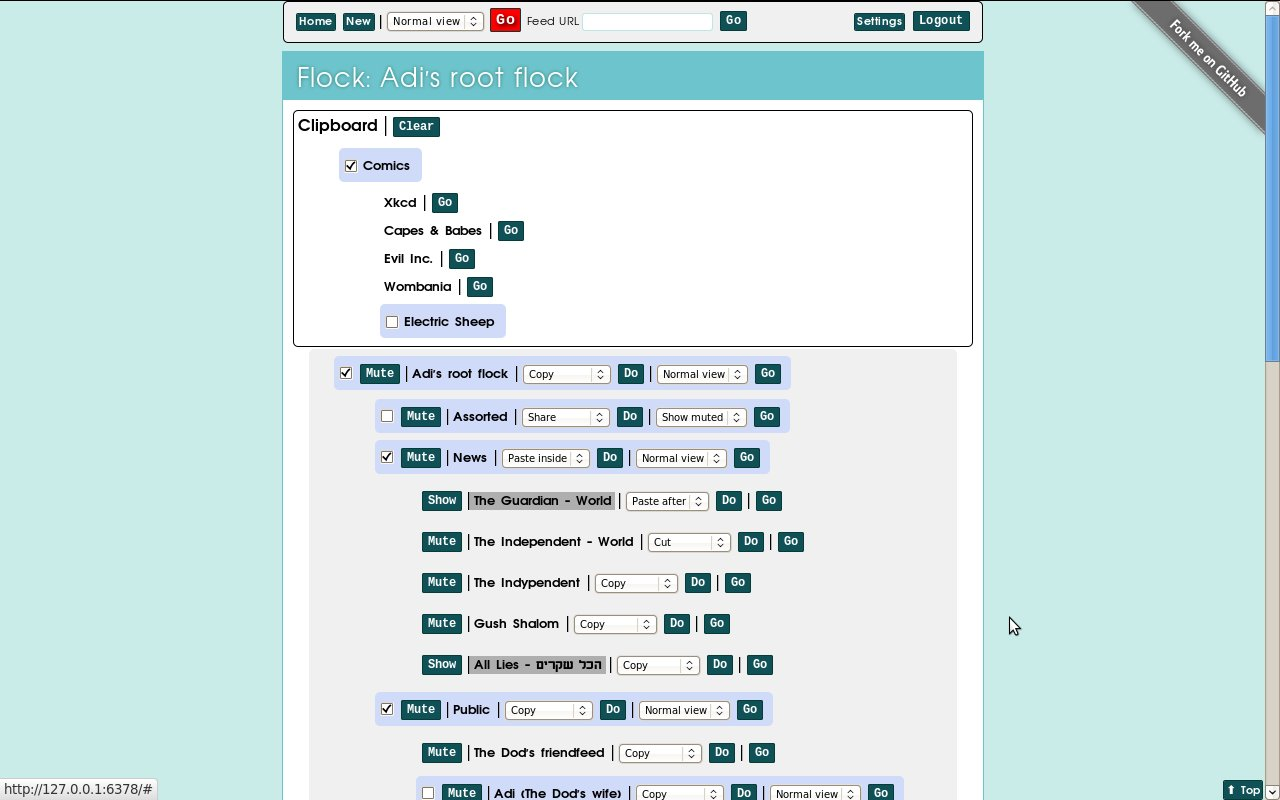
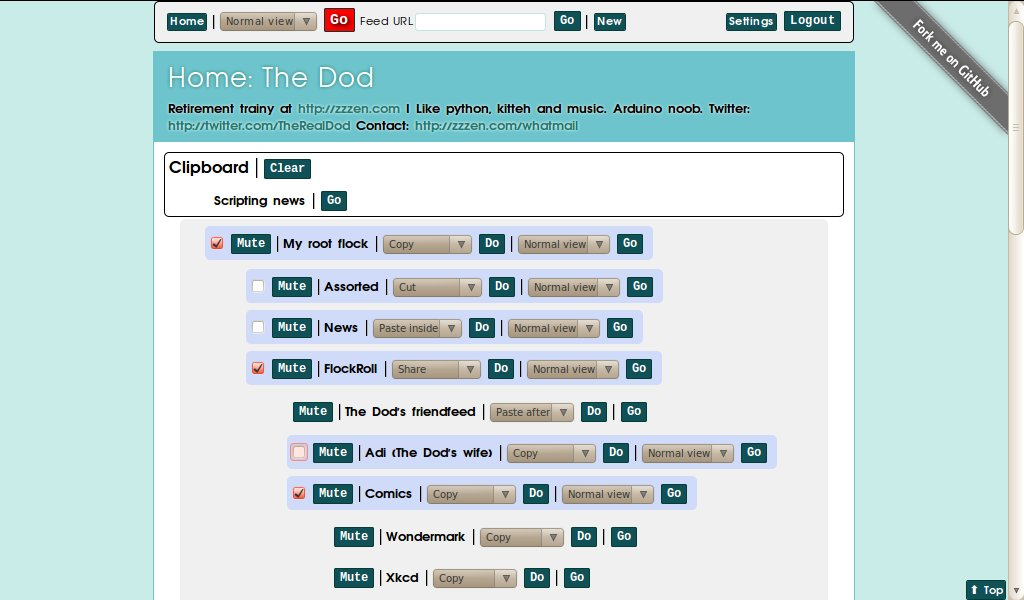
Aftershocks of rename to FlockRoll: default_flocks, README, etc.
Bug fixes:
* "Own" link now points to /settings.
* Comics don't hide the "fork me" on netbook :)

diff --git a/default_flock.js b/default_flock.js
@@ -1,1 +1,1 @@
-{"feeds":{"http://www.comics.wombania.com/feed/":{"title":"Wombania","url":"http://www.comics.wombania.com/feed/","link":"http://www.comics.wombania.com","description":"","rtl":false},"http://feeds2.feedburner.com/thai-food-blog/newsflashes":{"title":"\u05de\u05d1\u05d6\u05e7\u05d5\u05df \u05e1\u05d0\u05e0\u05d5\u05e7","url":"http://feeds2.feedburner.com/thai-food-blog/newsflashes","link":"http://news.thai-food-blog.com","description":"Hebrew newsflashes about Thailand and food by my wife","rtl":true},"http://www.indypendent.org/feed/":{"title":"The Indypendent","url":"http://www.indypendent.org/feed/","link":"http://www.indypendent.org","description":"By Indymedia NYC","rtl":false},"http://www.austinbushphotography.com/feed":{"title":"Austin Bush","url":"http://www.austinbushphotography.com/feed","link":"http://www.austinbushphotography.com","description":"Photography from Thailand - food and more","rtl":false},"http://stackoverflow.com/feeds/tag/webpy":{"title":"Stack Overflow: Web.py","url":"http://stackoverflow.com/feeds/tag/webpy","link":"http://stackoverflow.com/questions/tagged/?tagnames=webpy&sort=active","description":"Questions and answers with the \"Webpy\" tag at http://stackoverflow","rtl":false},"http://www.evil-comic.com/evilincrss.xml":{"title":"Evil Inc.","url":"http://www.evil-comic.com/evilincrss.xml","link":"http://www.evil-comic.com/","description":"","rtl":false},"http://www.electricsheepcomix.com/spiders/wp/?feed=rss2":{"title":"The Spiders","url":"http://www.electricsheepcomix.com/spiders/wp/?feed=rss2","link":"http://www.electricsheepcomix.com/spiders/wp","description":"","rtl":false},"http://feeds.feedburner.com/Gush-shalom-english":{"title":"Gush Shalom","url":"http://feeds.feedburner.com/Gush-shalom-english","link":"http://zope.gush-shalom.org/home/en","description":"Israeli peace bloc","rtl":false},"http://api.flickr.com/services/feeds/groups_pool.gne?id=709202@N21&lang=en-us&format=rss_200":{"title":"Flicker cat pool","url":"http://api.flickr.com/services/feeds/groups_pool.gne?id=709202@N21&lang=en-us&format=rss_200","link":"http://www.flickr.com/groups/allcatsallowed/pool/","description":"\"All Cats Allowed\" photo pool on Flickr","rtl":false},"http://scripting.com/rss.xml":{"title":"Scripting news","url":"http://scripting.com/rss.xml","link":"http://scripting.com/","description":"Dave Winer's famous blog","rtl":false},"http://xkcd.com/atom.xml":{"title":"Xkcd","url":"http://xkcd.com/atom.xml","link":"http://xkcd.com/","description":"A webcomic of romance, sarcasm, math, and language.","rtl":false},"http://stackoverflow.com/feeds/tag/feedparser":{"title":"Stack Overflow: Feedparser","url":"http://stackoverflow.com/feeds/tag/feedparser","link":"http://stackoverflow.com/questions/tagged/?tagnames=feedparser&sort=active","description":"Questions and answers with the \"feedparser\" tag at http://stackoverflow","rtl":false},"http://friendfeed.com/thedod?format=atom":{"title":"The Dod's friendfeed","url":"http://friendfeed.com/thedod?format=atom","link":"http://friendfeed.com/thedod","description":"Several of The Dod's feeds, including http://twitter.com/TheRealDod","rtl":false},"http://feeds2.feedburner.com/SheSimmers":{"title":"She Simmers","url":"http://feeds2.feedburner.com/SheSimmers","link":"http://www.shesimmers.com/","description":"Thai Food Et Cetera","rtl":false},"http://feeds.feedburner.com/neojaponisme":{"title":"N\u00e9ojaponisme","url":"http://feeds.feedburner.com/neojaponisme","link":"http://neojaponisme.com","description":"","rtl":false},"http://www.wired.com/threatlevel/feed/":{"title":"Threat Level","url":"http://www.wired.com/threatlevel/feed/","link":"http://www.wired.com/threatlevel","description":"","rtl":false},"http://www.capesnbabes.com/feed/atom/":{"title":"Capes & Babes","url":"http://www.capesnbabes.com/feed/atom/","link":"http://www.capesnbabes.com","description":"A webcomic by Chris Flick","rtl":false},"http://rss.feedsportal.com/c/266/f/3503/index.rss":{"title":"The Independent - World","url":"http://rss.feedsportal.com/c/266/f/3503/index.rss","link":"http://www.independent.co.uk/news/world/?service=Rss","description":"","rtl":false},"http://feeds.boingboing.net/boingboing/iBag":{"title":"bOING bOING","url":"http://feeds.boingboing.net/boingboing/iBag","link":"http://www.boingboing.net/","description":"Interesting shiyat","rtl":false},"http://feeds.feedburner.com/alllies/blog":{"title":"All Lies - \u05d4\u05db\u05dc \u05e9\u05e7\u05e8\u05d9\u05dd","url":"http://feeds.feedburner.com/alllies/blog","link":"http://alllies.org/blog","description":"\u05db\u05de\u05d5 \u05e2\u05d9\u05ea\u05d5\u05df, \u05e8\u05e7 \u05d1\u05d0\u05de\u05ea","rtl":true},"http://www.electricsheepcomix.com/dontlookback/wp/?feed=rss2":{"title":"Don't Look Back","url":"http://www.electricsheepcomix.com/dontlookback/wp/?feed=rss2","link":"http://www.electricsheepcomix.com/dontlookback/wp","description":"","rtl":false},"http://friendfeed.com/kitteh?format=atom":{"title":"KITTEH","url":"http://friendfeed.com/kitteh?format=atom","link":"http://friendfeed.com/kitteh","description":"\"Cat Lovers\" group on friendfeed","rtl":false},"http://feeds2.feedburner.com/thai-food-blog/main":{"title":"\u05e1\u05d0\u05e0\u05d5\u05e7 - \u05e4\u05d5\u05e1\u05d8\u05d9\u05dd","url":"http://feeds2.feedburner.com/thai-food-blog/main","link":"http://thai-food-blog.com","description":"\u05d1\u05dc\u05d5\u05d2 \u05d0\u05d5\u05db\u05dc \u05ea\u05d0\u05d9","rtl":true},"http://feeds.guardian.co.uk/theguardian/world/rss":{"title":"The Guardian - World","url":"http://feeds.guardian.co.uk/theguardian/world/rss","link":"http://www.guardian.co.uk/world","description":"","rtl":false}},"flock":{"items":[{"items":[{"mute":false,"url":"http://feeds.boingboing.net/boingboing/iBag","type":"feed"},{"mute":false,"url":"http://feeds.feedburner.com/neojaponisme","type":"feed"}],"title":"Assorted","mute":false,"type":"flock","description":"Feeds that I haven't sorted out yet :)"},{"items":[{"mute":true,"url":"http://feeds.guardian.co.uk/theguardian/world/rss","type":"feed"},{"mute":false,"url":"http://rss.feedsportal.com/c/266/f/3503/index.rss","type":"feed"},{"mute":false,"url":"http://www.indypendent.org/feed/","type":"feed"},{"mute":false,"url":"http://feeds.feedburner.com/Gush-shalom-english","type":"feed"},{"mute":true,"url":"http://feeds.feedburner.com/alllies/blog","type":"feed"}],"title":"News","mute":false,"type":"flock","description":"Various news sources"},{"items":[{"mute":false,"url":"http://friendfeed.com/thedod?format=atom","type":"feed"},{"items":[{"items":[{"mute":false,"url":"http://feeds2.feedburner.com/thai-food-blog/main","type":"feed"},{"mute":false,"url":"http://feeds2.feedburner.com/thai-food-blog/newsflashes","type":"feed"}],"title":"\u05de\u05e4\u05e2\u05dc\u05d5\u05ea \u05e1\u05d0\u05e0\u05d5\u05e7","mute":true,"type":"flock","description":"\u05e4\u05d5\u05e1\u05d8\u05d9\u05dd \u05d5\u05de\u05d1\u05d6\u05e7\u05d9\u05dd \u05de\u05ea\u05d5\u05da \"\u05e1\u05d0\u05e0\u05d5\u05e7\" - \u05d1\u05dc\u05d5\u05d2 \u05d4\u05d0\u05d5\u05db\u05dc \u05d4\u05ea\u05d0\u05d9 \u05e9\u05dc \u05e2\u05d3\u05d9 \u05e2\u05dc\u05d9\u05d4 - http://ThaiFoodBlog.com"},{"items":[{"mute":false,"url":"http://feeds2.feedburner.com/SheSimmers","type":"feed"},{"mute":false,"url":"http://www.austinbushphotography.com/feed","type":"feed"}],"title":"Adi likes","mute":false,"type":"flock","description":"Feeds abount Thailand and food that http://twitter.com/ThaiFoodBlog likes"}],"title":"Adi (The Dod's wife)","mute":false,"type":"flock","description":"Things http://twitter,com/ThaiFoodBlog does (Hebrew) and likes (English)"},{"items":[{"mute":false,"url":"http://xkcd.com/atom.xml","type":"feed"},{"mute":false,"url":"http://www.capesnbabes.com/feed/atom/","type":"feed"},{"mute":false,"url":"http://www.evil-comic.com/evilincrss.xml","type":"feed"},{"mute":false,"url":"http://www.comics.wombania.com/feed/","type":"feed"},{"items":[{"mute":false,"url":"http://www.electricsheepcomix.com/spiders/wp/?feed=rss2","type":"feed"},{"mute":false,"url":"http://www.electricsheepcomix.com/dontlookback/wp/?feed=rss2","type":"feed"}],"title":"Electric Sheep","mute":false,"type":"flock","description":""}],"title":"Comics","mute":false,"type":"flock","description":""},{"items":[{"mute":false,"url":"http://friendfeed.com/kitteh?format=atom","type":"feed"},{"mute":true,"url":"http://api.flickr.com/services/feeds/groups_pool.gne?id=709202@N21&lang=en-us&format=rss_200","type":"feed"}],"title":"Cats","mute":false,"type":"flock","description":""},{"items":[{"mute":false,"url":"http://feeds.guardian.co.uk/theguardian/world/rss","type":"feed"},{"mute":false,"url":"http://rss.feedsportal.com/c/266/f/3503/index.rss","type":"feed"}],"title":"News","mute":true,"type":"flock","description":"Example mainstream news"},{"items":[{"mute":false,"url":"http://www.wired.com/threatlevel/feed/","type":"feed"},{"mute":false,"url":"http://scripting.com/rss.xml","type":"feed"},{"mute":true,"url":"http://stackoverflow.com/feeds/tag/webpy","type":"feed"},{"mute":true,"url":"http://stackoverflow.com/feeds/tag/feedparser","type":"feed"}],"title":"Geeky stuff","mute":false,"type":"flock","description":""}],"title":"Public","mute":false,"type":"flock","description":"Feeds The Dod recommends"}],"title":"The Dod's root flock","mute":false,"type":"flock","description":"Public and private [for the sake of the demo] feeds of http://twitter.com/TheRealDod"}}
+{"flock": {"items": [{"items": [{"url": "http://feeds.boingboing.net/boingboing/iBag", "type": "feed", "mute": false}, {"url": "http://feeds.feedburner.com/neojaponisme", "type": "feed", "mute": false}], "title": "Assorted", "type": "flock", "description": "Feeds that I haven't sorted out yet :)", "mute": false}, {"items": [{"url": "http://feeds.guardian.co.uk/theguardian/world/rss", "type": "feed", "mute": true}, {"url": "http://rss.feedsportal.com/c/266/f/3503/index.rss", "type": "feed", "mute": false}, {"url": "http://www.indypendent.org/feed/", "type": "feed", "mute": false}, {"url": "http://feeds.feedburner.com/Gush-shalom-english", "type": "feed", "mute": false}, {"url": "http://feeds.feedburner.com/alllies/blog", "type": "feed", "mute": false}], "title": "News", "type": "flock", "description": "Various news sources", "mute": false}, {"items": [{"url": "http://friendfeed.com/thedod?format=atom", "type": "feed", "mute": false}, {"items": [{"items": [{"url": "http://feeds2.feedburner.com/thai-food-blog/main", "type": "feed", "mute": false}, {"url": "http://feeds2.feedburner.com/thai-food-blog/newsflashes", "type": "feed", "mute": false}], "title": "\u05de\u05e4\u05e2\u05dc\u05d5\u05ea \u05e1\u05d0\u05e0\u05d5\u05e7", "type": "flock", "description": "\u05e4\u05d5\u05e1\u05d8\u05d9\u05dd \u05d5\u05de\u05d1\u05d6\u05e7\u05d9\u05dd \u05de\u05ea\u05d5\u05da \"\u05e1\u05d0\u05e0\u05d5\u05e7\" - \u05d1\u05dc\u05d5\u05d2 \u05d4\u05d0\u05d5\u05db\u05dc \u05d4\u05ea\u05d0\u05d9 \u05e9\u05dc \u05e2\u05d3\u05d9 \u05e2\u05dc\u05d9\u05d4 - http://ThaiFoodBlog.com", "mute": false}, {"items": [{"url": "http://feeds2.feedburner.com/SheSimmers", "type": "feed", "mute": false}, {"url": "http://www.austinbushphotography.com/feed", "type": "feed", "mute": false}], "title": "Adi likes", "type": "flock", "description": "Feeds abount Thailand and food that http://twitter.com/ThaiFoodBlog likes", "mute": false}], "title": "Adi (The Dod's wife)", "type": "flock", "description": "Things http://twitter,com/ThaiFoodBlog does (Hebrew) and likes (English)", "mute": false}, {"items": [{"url": "http://feeds.feedburner.com/wondermark", "type": "feed"}, {"url": "http://xkcd.com/atom.xml", "type": "feed", "mute": false}, {"url": "http://www.capesnbabes.com/feed/atom/", "type": "feed", "mute": false}, {"url": "http://www.evil-comic.com/evilincrss.xml", "type": "feed", "mute": false}, {"url": "http://www.comics.wombania.com/feed/", "type": "feed", "mute": false}, {"items": [{"url": "http://www.electricsheepcomix.com/spiders/wp/?feed=rss2", "type": "feed", "mute": false}, {"url": "http://www.electricsheepcomix.com/dontlookback/wp/?feed=rss2", "type": "feed", "mute": false}], "title": "Electric Sheep", "type": "flock", "description": "", "mute": false}], "title": "Comics", "type": "flock", "description": "", "mute": false}, {"items": [{"url": "http://friendfeed.com/kitteh?format=atom", "type": "feed", "mute": false}, {"url": "http://api.flickr.com/services/feeds/groups_pool.gne?id=709202@N21&lang=en-us&format=rss_200", "type": "feed", "mute": true}, {"url": "http://feeds.feedburner.com/ICanHasCheezburger", "type": "feed", "mute": true}], "title": "Cats", "type": "flock", "description": "", "mute": false}, {"items": [{"url": "http://feeds.guardian.co.uk/theguardian/world/rss", "type": "feed", "mute": false}, {"url": "http://rss.feedsportal.com/c/266/f/3503/index.rss", "type": "feed", "mute": false}], "title": "News", "type": "flock", "description": "Example mainstream news", "mute": true}, {"items": [{"url": "http://www.wired.com/threatlevel/feed/", "type": "feed", "mute": false}, {"url": "http://scripting.com/rss.xml", "type": "feed", "mute": false}, {"url": "http://feeds.feedburner.com/SciencebaseScienceBlog", "type": "feed"}, {"url": "http://stackoverflow.com/feeds/tag/webpy", "type": "feed", "mute": false}, {"url": "http://stackoverflow.com/feeds/tag/feedparser", "type": "feed", "mute": false}], "title": "Geeky stuff", "type": "flock", "description": "", "mute": false}], "title": "FlockRoll", "type": "flock", "description": "Feeds The Dod recommends", "mute": false}], "title": "My root flock", "type": "flock", "description": "All my base", "mute": false}, "feeds": {"http://feeds.feedburner.com/neojaponisme": {"url": "http://feeds.feedburner.com/neojaponisme", "rtl": false, "link": "http://neojaponisme.com", "description": "", "title": "N\u00e9ojaponisme"}, "http://feeds.feedburner.com/ICanHasCheezburger": {"link": "http://icanhascheezburger.com", "description": "CHEEZBURGER. STOOPID.", "title": "I CAN HAZ", "url": "http://feeds.feedburner.com/ICanHasCheezburger", "rtl": false}, "http://feeds2.feedburner.com/thai-food-blog/main": {"url": "http://feeds2.feedburner.com/thai-food-blog/main", "rtl": true, "link": "http://thai-food-blog.com", "description": "\u05d1\u05dc\u05d5\u05d2 \u05d0\u05d5\u05db\u05dc \u05ea\u05d0\u05d9", "title": "\u05e1\u05d0\u05e0\u05d5\u05e7 - \u05e4\u05d5\u05e1\u05d8\u05d9\u05dd"}, "http://friendfeed.com/thedod?format=atom": {"url": "http://friendfeed.com/thedod?format=atom", "rtl": false, "link": "http://friendfeed.com/thedod", "description": "Several of The Dod's feeds, including http://twitter.com/TheRealDod", "title": "The Dod's friendfeed"}, "http://www.electricsheepcomix.com/dontlookback/wp/?feed=rss2": {"url": "http://www.electricsheepcomix.com/dontlookback/wp/?feed=rss2", "rtl": false, "link": "http://www.electricsheepcomix.com/dontlookback/wp", "description": "", "title": "Don't Look Back"}, "http://scripting.com/rss.xml": {"url": "http://scripting.com/rss.xml", "rtl": false, "link": "http://scripting.com/", "description": "Dave Winer's famous blog", "title": "Scripting news"}, "http://feeds.feedburner.com/wondermark": {"link": "http://wondermark.com", "description": "By David Malki !", "title": "Wondermark", "url": "http://feeds.feedburner.com/wondermark", "rtl": false}, "http://feeds2.feedburner.com/thai-food-blog/newsflashes": {"url": "http://feeds2.feedburner.com/thai-food-blog/newsflashes", "rtl": true, "link": "http://news.thai-food-blog.com", "description": "Hebrew newsflashes about Thailand and food by my wife", "title": "\u05de\u05d1\u05d6\u05e7\u05d5\u05df \u05e1\u05d0\u05e0\u05d5\u05e7"}, "http://feeds.boingboing.net/boingboing/iBag": {"url": "http://feeds.boingboing.net/boingboing/iBag", "rtl": false, "link": "http://www.boingboing.net/", "description": "Interesting shiyat", "title": "bOING bOING"}, "http://www.indypendent.org/feed/": {"url": "http://www.indypendent.org/feed/", "rtl": false, "link": "http://www.indypendent.org", "description": "By Indymedia NYC", "title": "The Indypendent"}, "http://www.comics.wombania.com/feed/": {"url": "http://www.comics.wombania.com/feed/", "rtl": false, "link": "http://www.comics.wombania.com", "description": "", "title": "Wombania"}, "http://www.electricsheepcomix.com/spiders/wp/?feed=rss2": {"url": "http://www.electricsheepcomix.com/spiders/wp/?feed=rss2", "rtl": false, "link": "http://www.electricsheepcomix.com/spiders/wp", "description": "", "title": "The Spiders"}, "http://stackoverflow.com/feeds/tag/feedparser": {"url": "http://stackoverflow.com/feeds/tag/feedparser", "rtl": false, "link": "http://stackoverflow.com/questions/tagged/?tagnames=feedparser&sort=active", "description": "Questions and answers with the \"feedparser\" tag at http://stackoverflow", "title": "Stack Overflow: Feedparser"}, "http://www.austinbushphotography.com/feed": {"url": "http://www.austinbushphotography.com/feed", "rtl": false, "link": "http://www.austinbushphotography.com", "description": "Photography from Thailand - food and more", "title": "Austin Bush"}, "http://feeds.feedburner.com/alllies/blog": {"url": "http://feeds.feedburner.com/alllies/blog", "rtl": true, "link": "http://alllies.org/blog", "description": "\u05db\u05de\u05d5 \u05e2\u05d9\u05ea\u05d5\u05df, \u05e8\u05e7 \u05d1\u05d0\u05de\u05ea", "title": "All Lies - \u05d4\u05db\u05dc \u05e9\u05e7\u05e8\u05d9\u05dd"}, "http://rss.feedsportal.com/c/266/f/3503/index.rss": {"url": "http://rss.feedsportal.com/c/266/f/3503/index.rss", "rtl": false, "link": "http://www.independent.co.uk/news/world/?service=Rss", "description": "", "title": "The Independent - World"}, "http://www.wired.com/threatlevel/feed/": {"url": "http://www.wired.com/threatlevel/feed/", "rtl": false, "link": "http://www.wired.com/threatlevel", "description": "", "title": "Threat Level"}, "http://xkcd.com/atom.xml": {"url": "http://xkcd.com/atom.xml", "rtl": false, "link": "http://xkcd.com/", "description": "A webcomic of romance, sarcasm, math, and language.", "title": "Xkcd"}, "http://friendfeed.com/kitteh?format=atom": {"url": "http://friendfeed.com/kitteh?format=atom", "rtl": false, "link": "http://friendfeed.com/kitteh", "description": "\"Cat Lovers\" group on friendfeed", "title": "KITTEH"}, "http://feeds.guardian.co.uk/theguardian/world/rss": {"url": "http://feeds.guardian.co.uk/theguardian/world/rss", "rtl": false, "link": "http://www.guardian.co.uk/world", "description": "", "title": "The Guardian - World"}, "http://stackoverflow.com/feeds/tag/webpy": {"url": "http://stackoverflow.com/feeds/tag/webpy", "rtl": false, "link": "http://stackoverflow.com/questions/tagged/?tagnames=webpy&sort=active", "description": "Questions and answers with the \"Webpy\" tag at http://stackoverflow", "title": "Stack Overflow: Web.py"}, "http://www.capesnbabes.com/feed/atom/": {"url": "http://www.capesnbabes.com/feed/atom/", "rtl": false, "link": "http://www.capesnbabes.com", "description": "A webcomic by Chris Flick", "title": "Capes & Babes"}, "http://www.evil-comic.com/evilincrss.xml": {"url": "http://www.evil-comic.com/evilincrss.xml", "rtl": false, "link": "http://www.evil-comic.com/", "description": "", "title": "Evil Inc."}, "http://feeds.feedburner.com/SciencebaseScienceBlog": {"link": "http://www.sciencebase.com/science-blog", "description": "By David Bradley", "title": "Sciencebase Blog", "url": "http://feeds.feedburner.com/SciencebaseScienceBlog", "rtl": false}, "http://feeds2.feedburner.com/SheSimmers": {"url": "http://feeds2.feedburner.com/SheSimmers", "rtl": false, "link": "http://www.shesimmers.com/", "description": "Thai Food Et Cetera", "title": "She Simmers"}, "http://feeds.feedburner.com/Gush-shalom-english": {"url": "http://feeds.feedburner.com/Gush-shalom-english", "rtl": false, "link": "http://zope.gush-shalom.org/home/en", "description": "Israeli peace bloc", "title": "Gush Shalom"}, "http://api.flickr.com/services/feeds/groups_pool.gne?id=709202@N21&lang=en-us&format=rss_200": {"url": "http://api.flickr.com/services/feeds/groups_pool.gne?id=709202@N21&lang=en-us&format=rss_200", "rtl": false, "link": "http://www.flickr.com/groups/allcatsallowed/pool/", "description": "\"All Cats Allowed\" photo pool on Flickr", "title": "Flicker cat pool"}}}

diff --git a/templates/layout.html b/templates/layout.html
@@ -12,7 +12,7 @@ $ homepath = ctx.homepath
   </head>
   <body>
     <!-- Fork me -->
-    <a href="https://github.com/thedod/Flocks#readme"><img style="position: fixed; top: 0; right: 0; border: 0;"
+    <a href="https://github.com/thedod/Flocks#readme"><img style="position: fixed; top: 0; right: 0; border: 0; z-index:23"
       src="https://d3nwyuy0nl342s.cloudfront.net/img/71eeaab9d563c2b3c590319b398dd35683265e85/687474703a2f2f73332e616d617a6f6e6177732e636f6d2f6769746875622f726962626f6e732f666f726b6d655f72696768745f677261795f3664366436642e706e67"
       alt="Fork me on GitHub"></a>
     <div class=page>
@@ -37,7 +37,7 @@ $ homepath = ctx.homepath
             <form class="login-menu" method=post action="$homepath/login">
               $if account.is_new():
                 $if not rendered.get('is_password_page'):
-                  <a class="important internal-link" href="$homepath/set_password">Quick! Own your nest!</a>
+                  <a class="important internal-link" href="$homepath/settings">Quick! Own your nest!</a>
               $else:
                 $:login_form({'csrf_token':csrf_token()}).render_css()
             </form>
@@ -45,14 +45,16 @@ $ homepath = ctx.homepath
         <form class='inline-form important-button' method=post action="$homepath/channels">
           $:channels_form({'csrf_token':csrf_token(),'flock':''}).render_css()
         </form>
-        $if account.is_logged_in() and not rendered.get('is_new_flock_page'):
-          <a class=internal-link href="$homepath/newflock">New</a>
         $if not rendered.get('no_feed_form'):
           <form class="inline-with-labels" method=post action="$homepath/channel">
             $code:
                 feedform = feed_form()
                 feedform.fill(csrf_token=csrf_token())
             $:feedform.render_css()
+          </form>
+        $if account.is_logged_in() and not rendered.get('is_new_flock_page'):
+          <form class='inline-form'>
+            <a class=internal-link href="$homepath/newflock">New</a>
           </form>
       </div>
       <div class=body>
